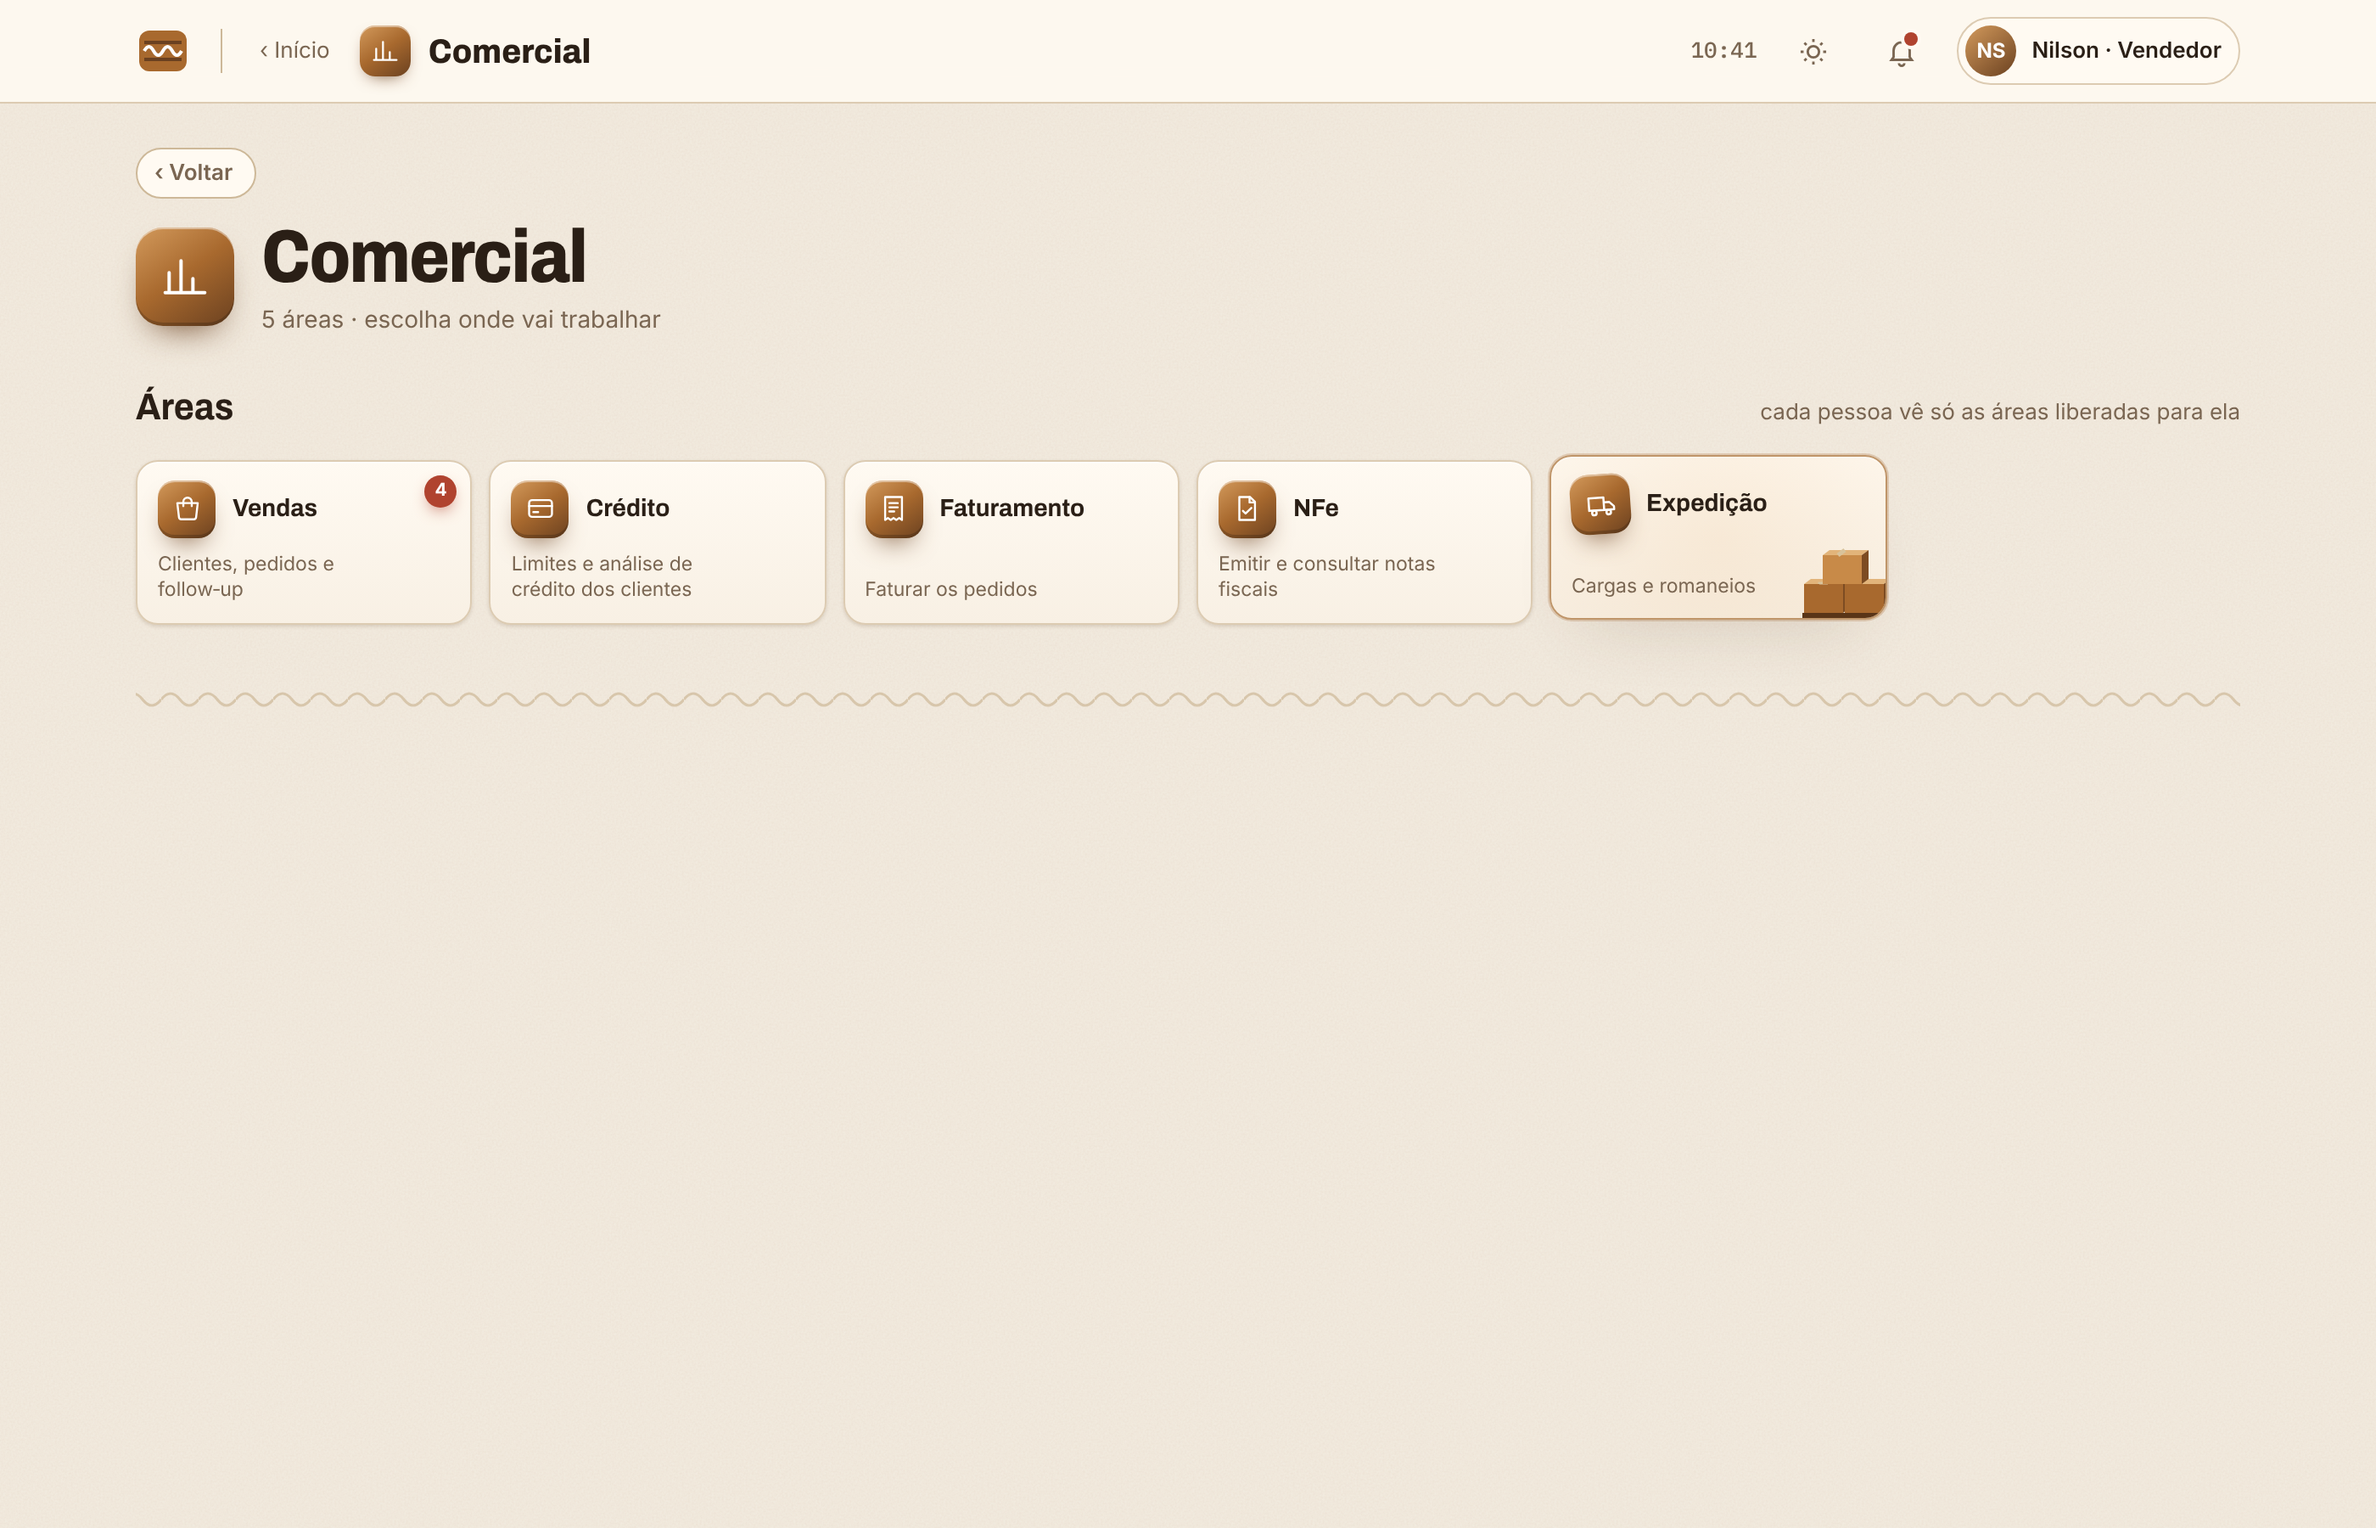
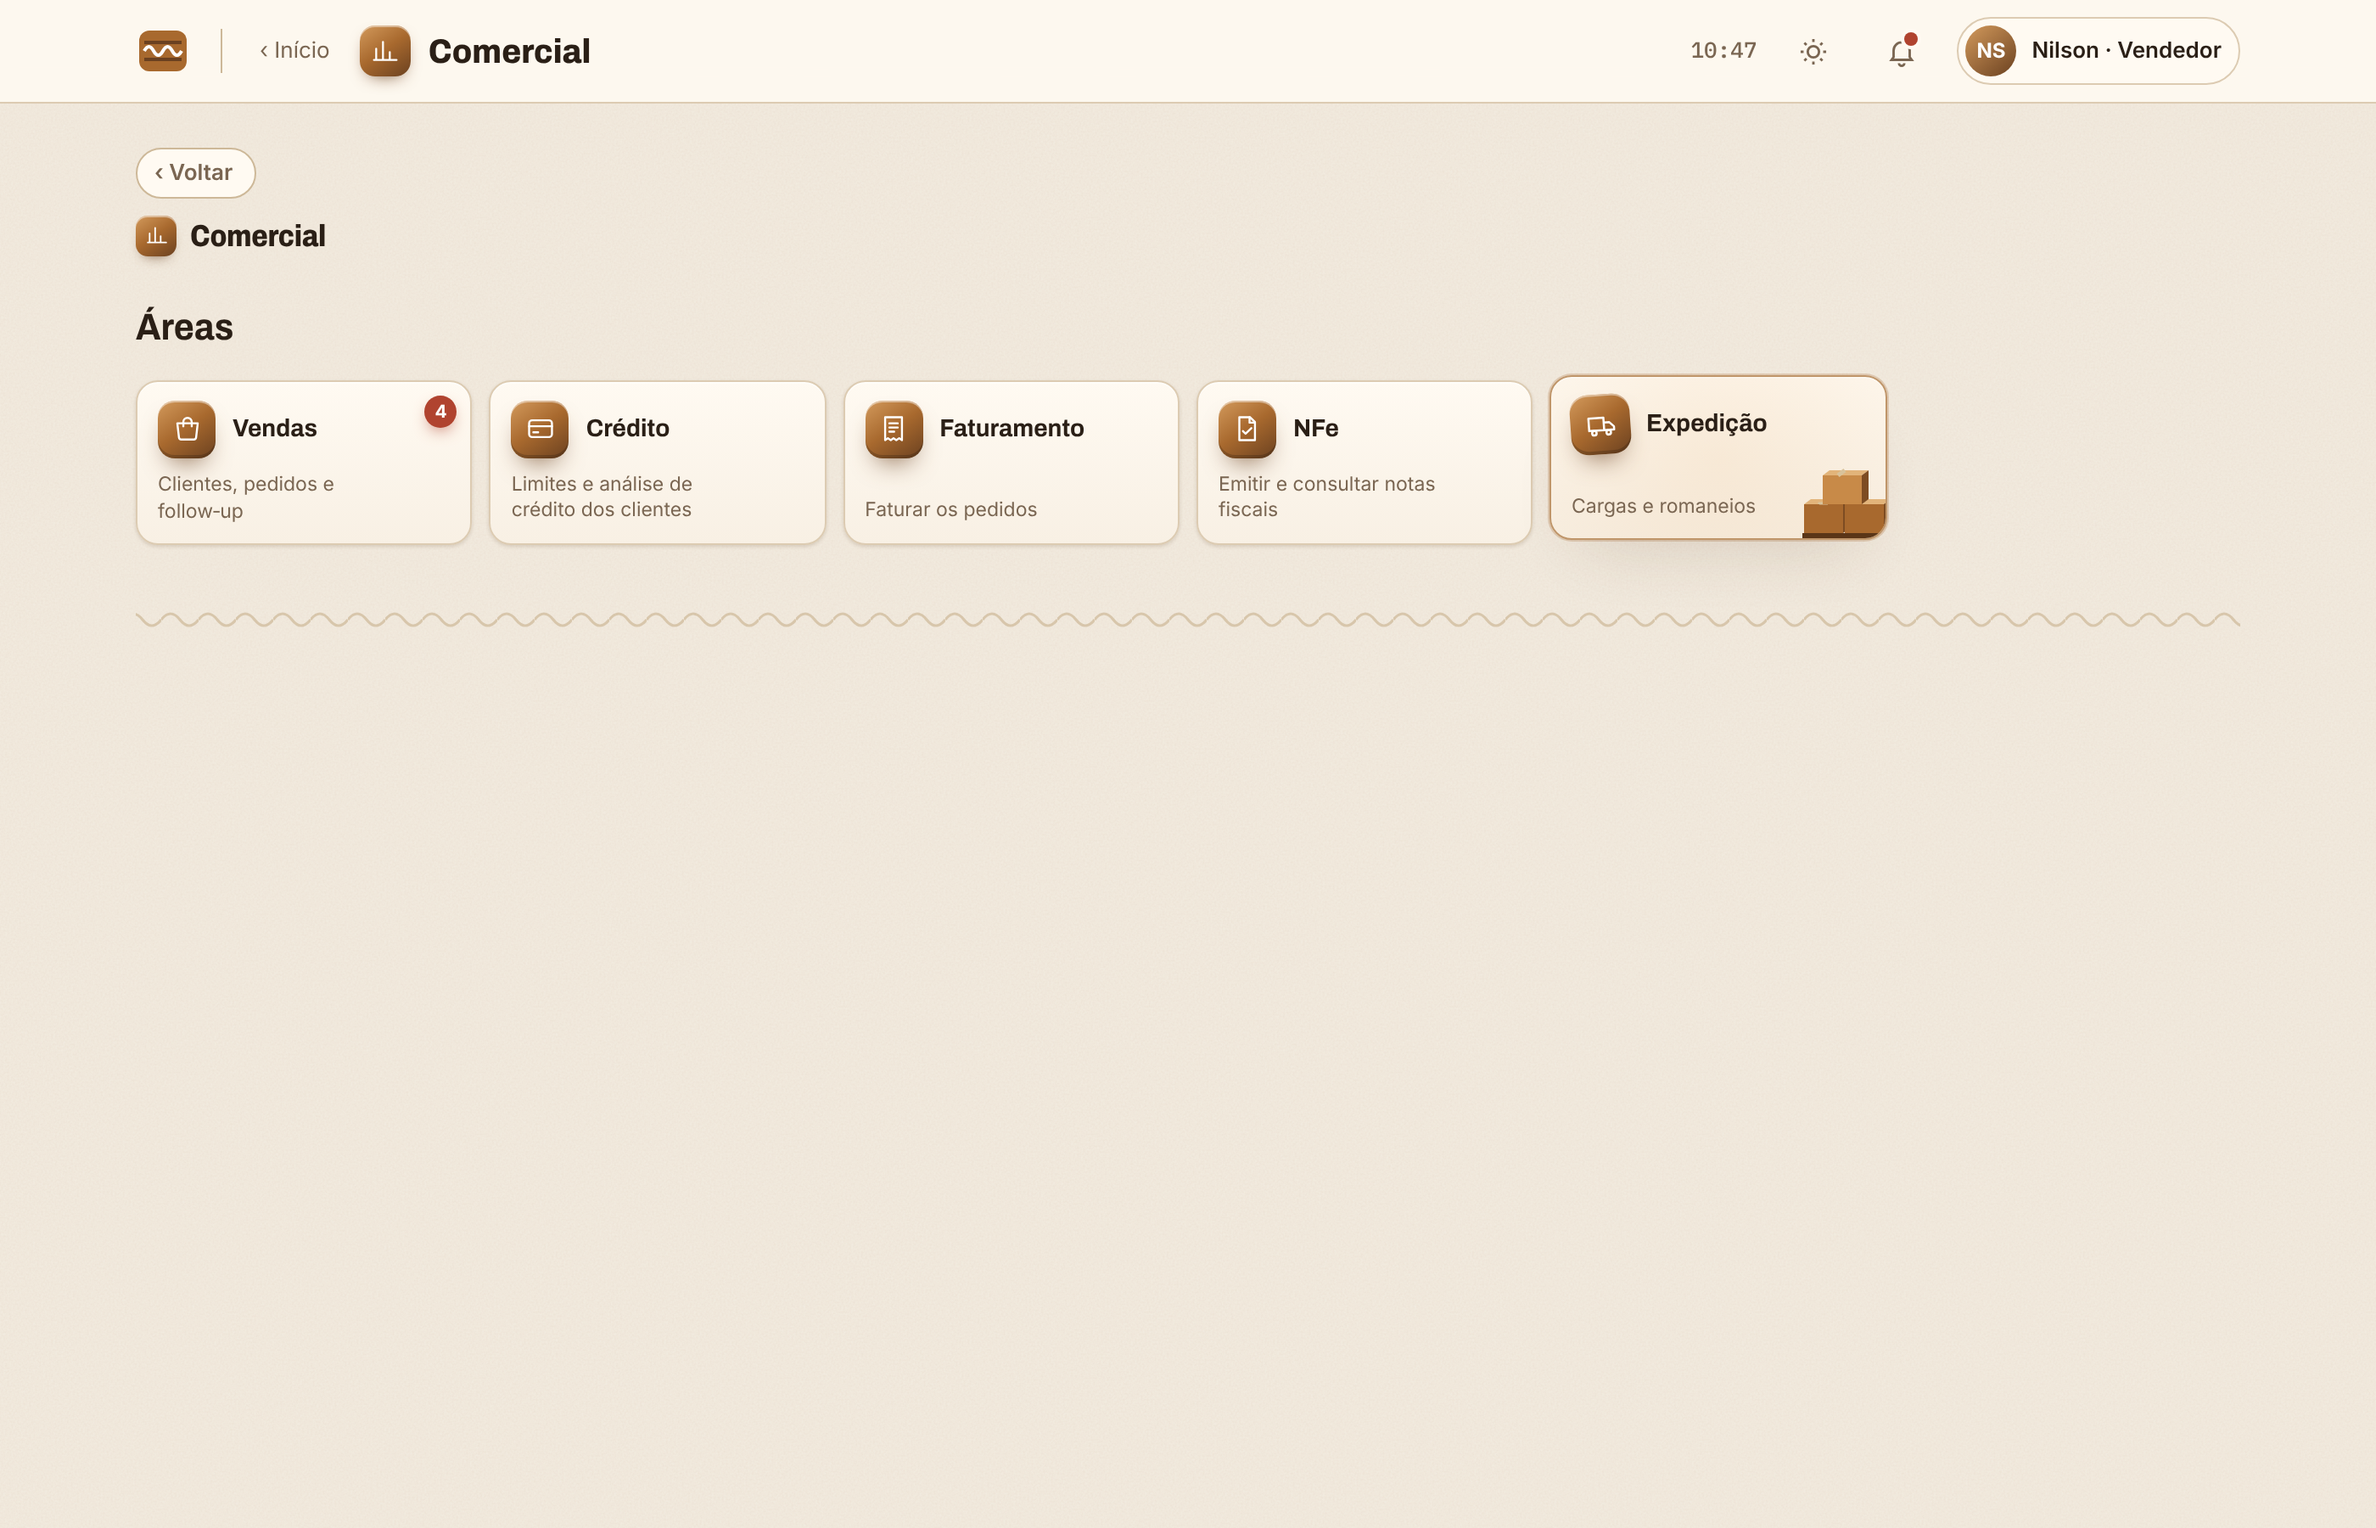
Tela de áreas: título do módulo menor e sem frases de apoio
Claude-Session: https://claude.ai/code/session_015kL8p4eCaL1huCADCSMStj

Changed region(s): [[0.3418, 0.2489, 0.8079, 0.4044], [0.0311, 0.1244, 0.3107, 0.4044], [0.8389, 0.2489, 0.9321, 0.28]]

diff --git a/prototipo/tela-inicial-e-comercial.html b/prototipo/tela-inicial-e-comercial.html
@@ -232,6 +232,11 @@ h2{font-family:var(--f-display);font-weight:700;font-stretch:92%;font-size:22px;
 .tile .deco.onda{width:52px;height:52px;right:2px;bottom:-4px}
 .tile:hover,.tile:focus-visible{transform:translateY(-3px) rotateX(var(--rx)) rotateY(var(--ry))}
 .tile:hover .ic{transform:rotate(-4deg) scale(1.04)}
+/* título do módulo na tela de áreas: 60% menor */
+#view-areas .mh{gap:8px;margin-top:10px}
+#view-areas .mh .ic{width:24px;height:24px;border-radius:7px;box-shadow:0 1px 0 rgba(255,255,255,.45) inset,0 4px 8px -5px var(--kraft-deep)}
+#view-areas .mh .ic svg{width:13px;height:13px}
+#view-areas .mh h1{font-size:18px;letter-spacing:-.01em}
 .voltar{display:inline-flex;align-items:center;gap:6px;border:1px solid var(--line-2);background:var(--surface);border-radius:99px;padding:4px 13px 4px 10px;font-size:13px;font-weight:600;color:var(--muted);cursor:pointer;transition:color .2s,border-color .2s}
 .voltar:hover{color:var(--kraft);border-color:var(--kraft)}
 
@@ -623,12 +628,12 @@ table.cli{width:100%;border-collapse:collapse;min-width:760px;font-size:14px}
   <section class="mod-head gut">
     <div class="max">
       <button class="voltar" id="voltarBtn" type="button">‹ Voltar</button>
-      <div class="mh"><span class="ic" id="areasIc"></span><div><h1 id="areasTit">Comercial</h1><div class="sub" id="areasSub">Escolha a área</div></div></div>
+      <div class="mh"><span class="ic" id="areasIc"></span><h1 id="areasTit">Comercial</h1></div>
     </div>
   </section>
   <section class="gut">
     <div class="max">
-      <div class="secthead" style="margin-top:26px"><h2>Áreas</h2><span>cada pessoa vê só as áreas liberadas para ela</span></div>
+      <div class="secthead" style="margin-top:26px"><h2>Áreas</h2></div>
       <div class="apps" id="areasGrid"></div>
       <div class="wave" aria-hidden="true"></div>
     </div>
@@ -1123,10 +1128,9 @@ apps.addEventListener('click', (e) => {
 
 /* ── tela de áreas: mesmo layout da tela inicial ── */
 function montarAreas(){
-  const m = atual.m, n = m.areas.length;
+  const m = atual.m;
   $('areasIc').innerHTML = svg(m.k);
   $('areasTit').textContent = m.nome;
-  $('areasSub').textContent = `${n} ${n > 1 ? 'áreas' : 'área'} · escolha onde vai trabalhar`;
   areasGrid.innerHTML = m.areas.map(a => {
     const badge = BADGE_AREA[m.slug + '/' + a.k] || (m.calm && m.badge);
     return `<button class="tile" type="button" data-area="${a.k}">

diff --git a/README.md b/README.md
@@ -78,7 +78,8 @@ do sistema (com IA) respeitando o que cada usuário pode acessar.
 ### Áreas do módulo (padrão para todos)
 - Clicar num módulo que tem áreas abre a **tela de áreas**, no **mesmo layout da tela
   inicial**: botão **‹ Voltar** (volta para a tela de onde a pessoa veio; se abriu direto,
-  para o Início), título do módulo e uma grade de cartões compactos, um por área, com a mesma caixinha
+  para o Início), título do módulo **pequeno** (ícone e nome, sem frases de apoio) e
+  uma grade de cartões compactos, um por área, com a mesma caixinha
   ao passar o mouse (pilha no pallet em Expedição e Materiais, onda em PCP e Reporte de
   produção, faca em Engenharia industrial) e o selo de pendências de cada área.
 - No sistema real, cada pessoa vê só as áreas liberadas para ela.
